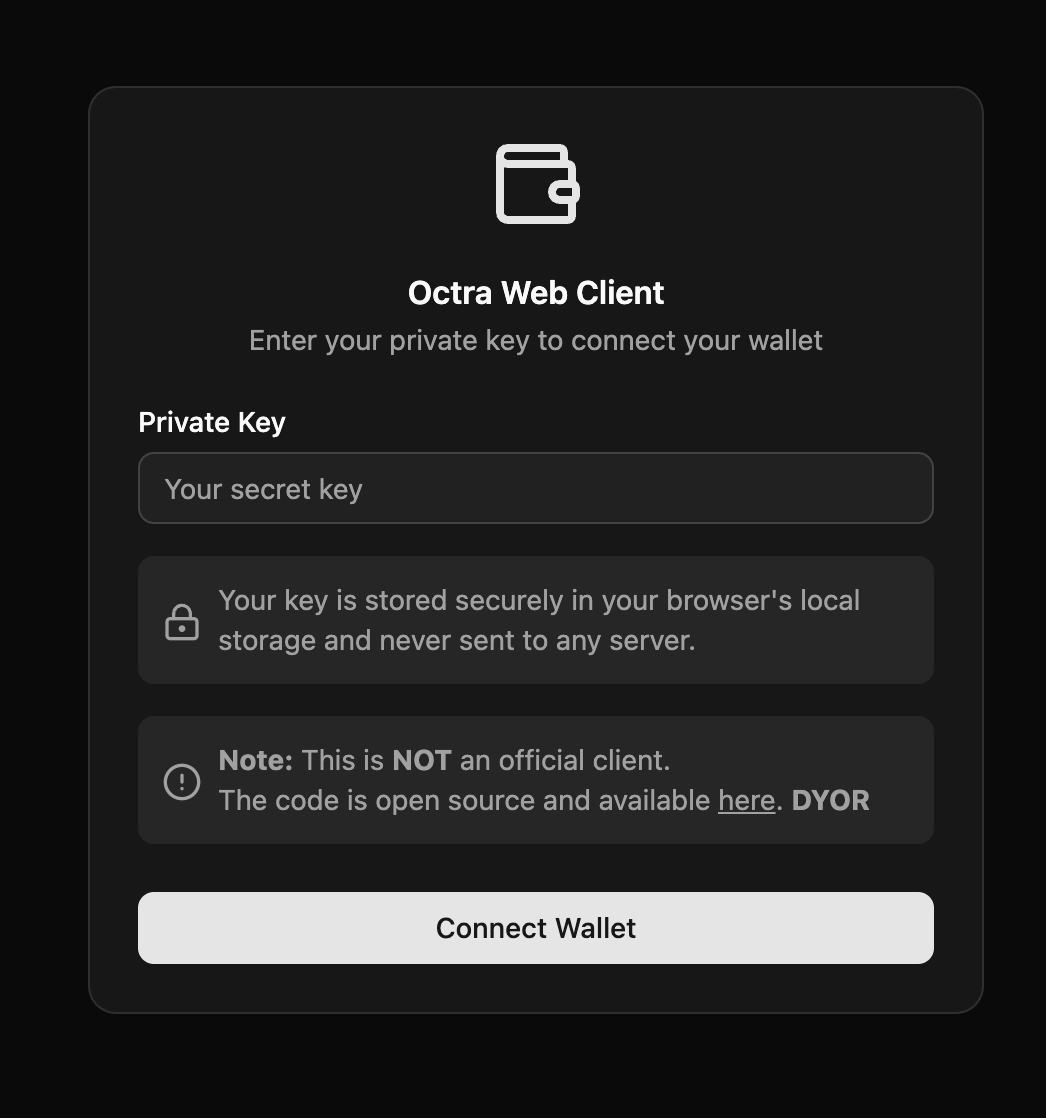
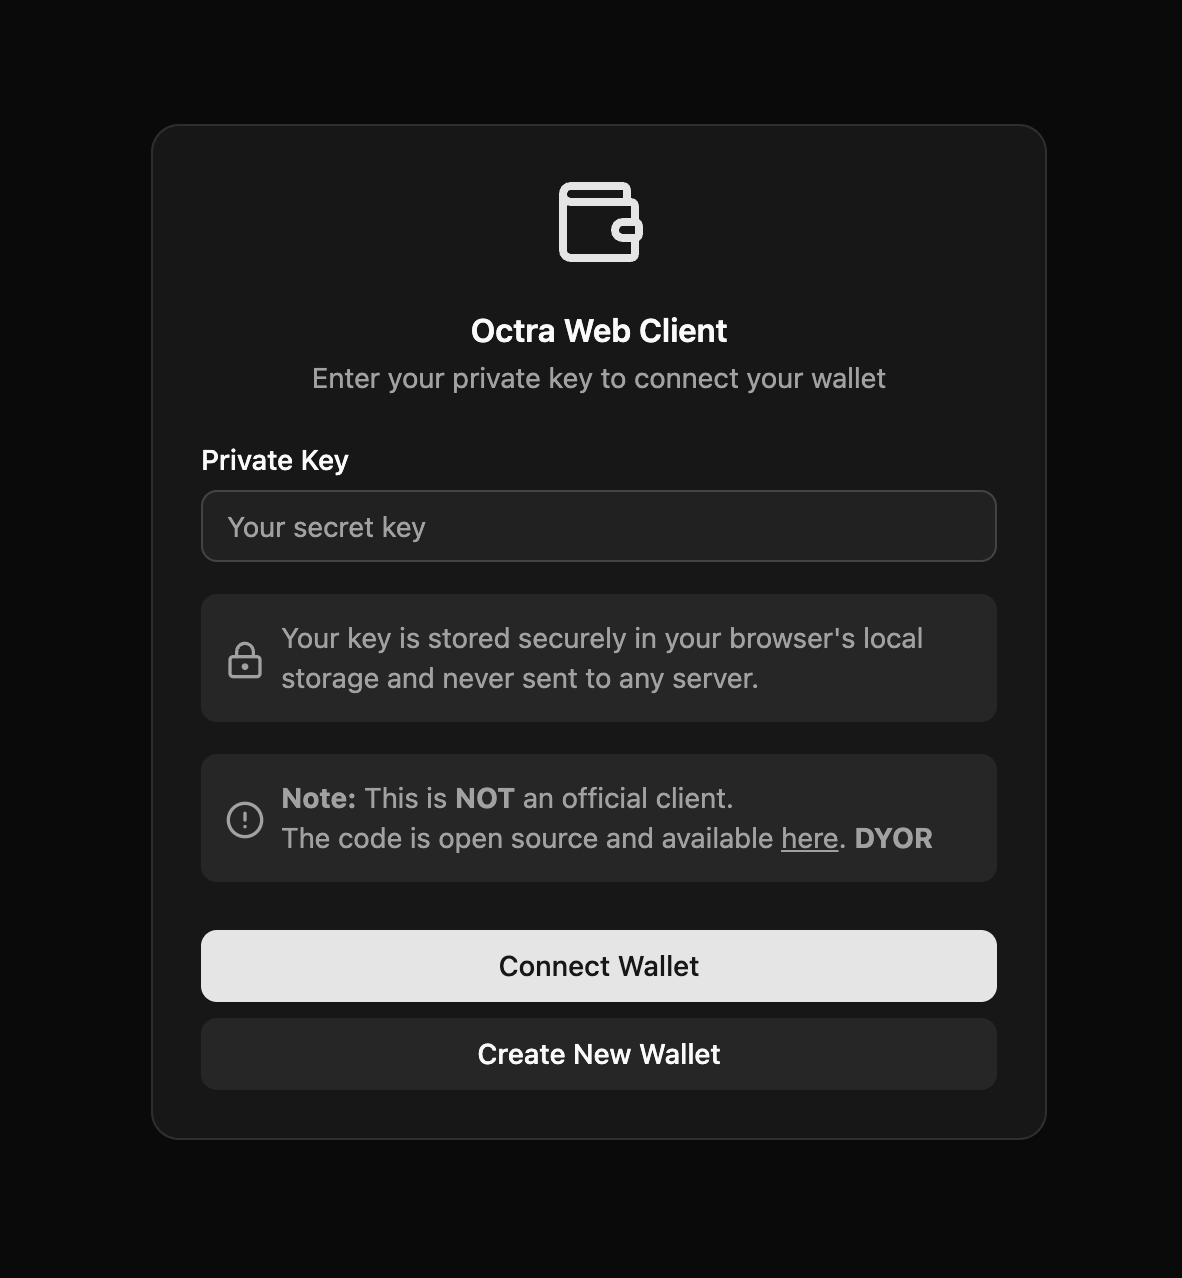
update readme

diff --git a/app/components/dashboard/send-dialog.tsx b/app/components/dashboard/send-dialog.tsx
@@ -214,8 +214,8 @@ export function SendDialog({children}: SendDialogProps) {
                 <ScrollBar orientation="vertical"/>
               </ScrollArea>
 
-              <div className="flex-shrink-0 space-y-2">
-                <Button variant="outline" onClick={addRecipient}>
+              <div className="flex-shrink-0 space-y-2 w-full">
+                <Button variant="outline" className="w-full" onClick={addRecipient}>
                   <PlusCircle className="h-4 w-4 mr-2"/>Add Recipient
                 </Button>
                 {balance !== undefined && (

diff --git a/README.md b/README.md
@@ -5,7 +5,7 @@
 This is a simple web client for [Octra](https://octra.org/), made for users who are having difficulty with the **OFFICIAL** [TUI (text-based user interface) client](https://github.com/octra-labs/octra_pre_client).
 
 ![login-page](./images/login-page.png)
-![dashboard-page](./images/dasboard-page.png)
+![dashboard-page](./images/dashboard-page.png)
 
 ## Usage
 
@@ -27,8 +27,8 @@ Or, use the deployed client [here](https://non-official-octra-web-client.vercel.
 
 
 ## TODO
-- [ ] support multi send
-- [ ] support staging transaction history
-- [ ] support transaction history pagination
-- [ ] maybe support wallet generation?
+- [x] support multi send
+- [x] support staging transaction history
+- [ ] support transaction history pagination (api doesn’t seem to support this yet, will try later)
+- [x] maybe support wallet generation?
 
